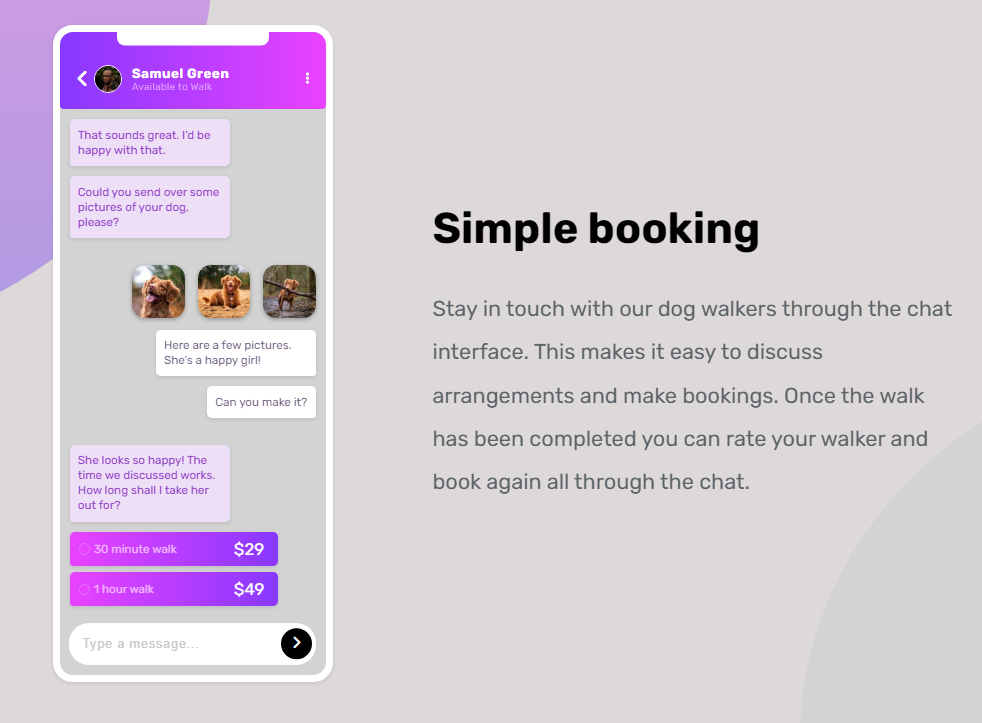
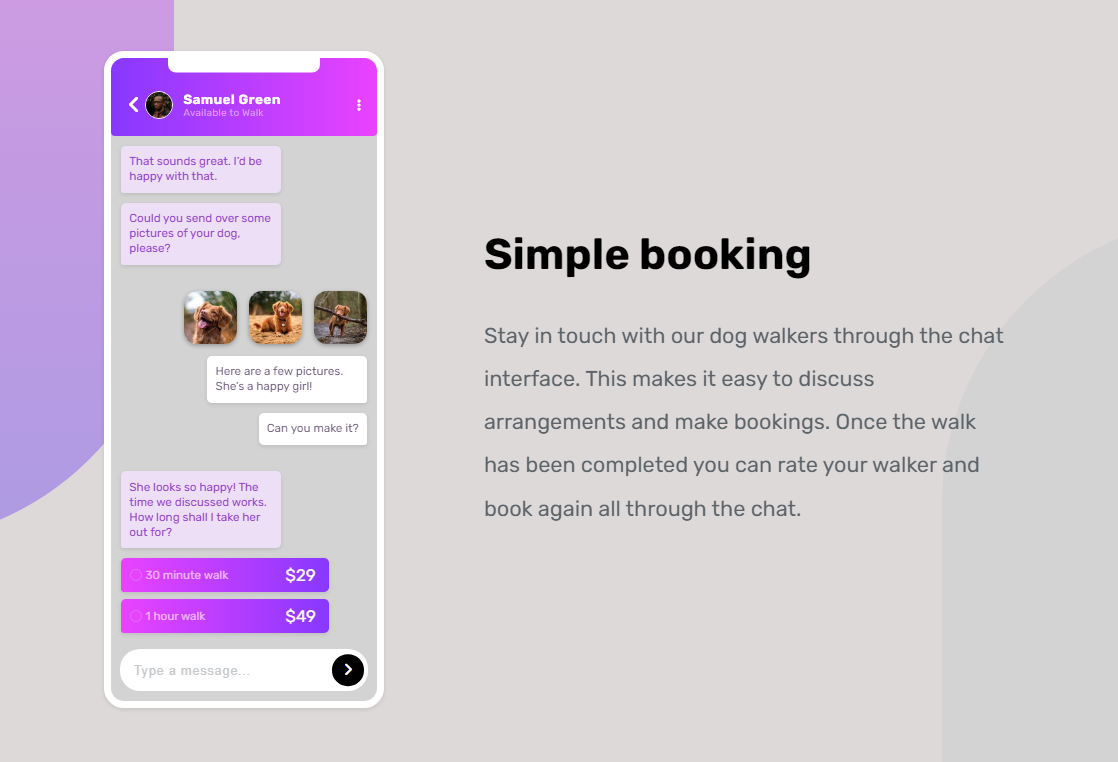
update design img and styles.css

Changed region(s): [[0.0, 0.0, 0.3666, 0.9433], [0.4277, 0.3956, 0.9776, 0.6999], [0.4277, 0.2739, 0.7943, 0.3651]]

diff --git a/styles.css b/styles.css
@@ -20,9 +20,10 @@ body::before {
   left: 0;
   content: "";
   width: 50%;
-  height: 50%;
+  height: 70%;
   background: linear-gradient(to top, #8c71e899, #c371e899);
-  border-bottom-right-radius: 100%;
+  border-bottom-right-radius: 50%;
+  border-bottom-left-radius: 50%;
   z-index: -1;
 }
 body::after {
@@ -31,9 +32,10 @@ body::after {
   right: 0;
   content: "";
   width: 50%;
-  height: 50%;
+  height: 70%;
   background-color: lightgrey;
-  border-top-left-radius: 100%;
+  border-top-right-radius: 50%;
+  border-top-left-radius: 50%;
   z-index: -1;
 }
 
